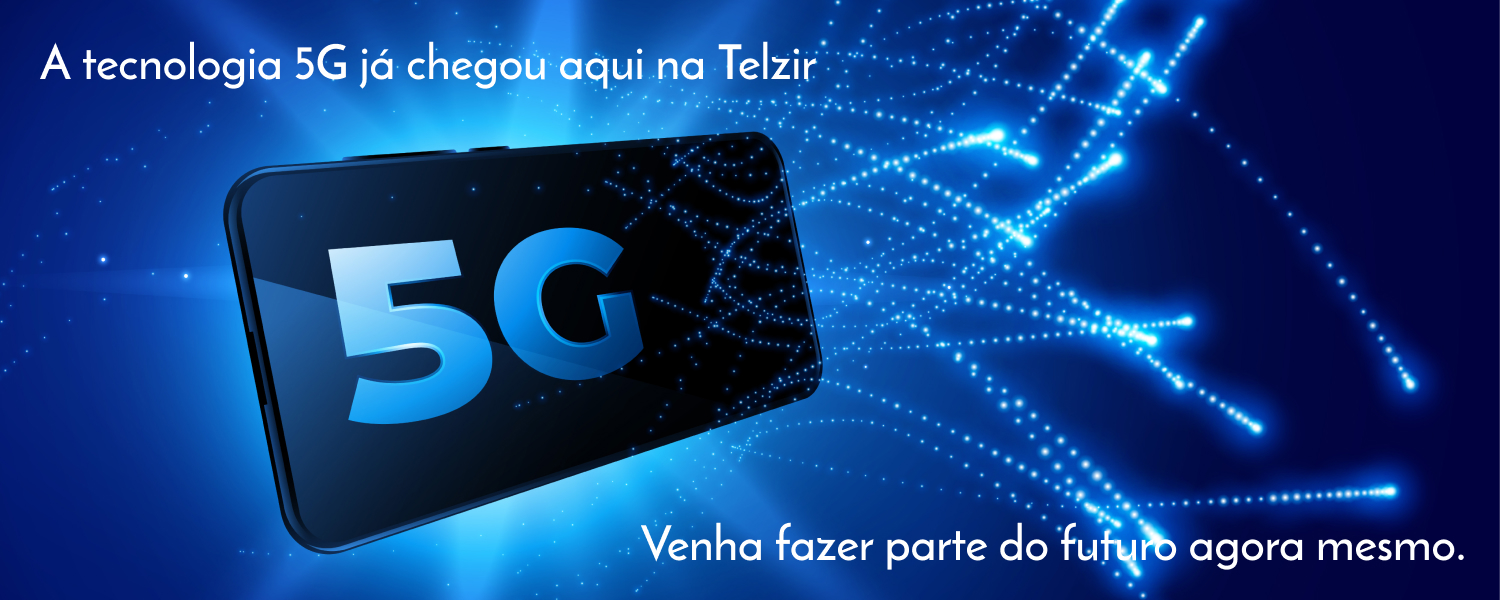
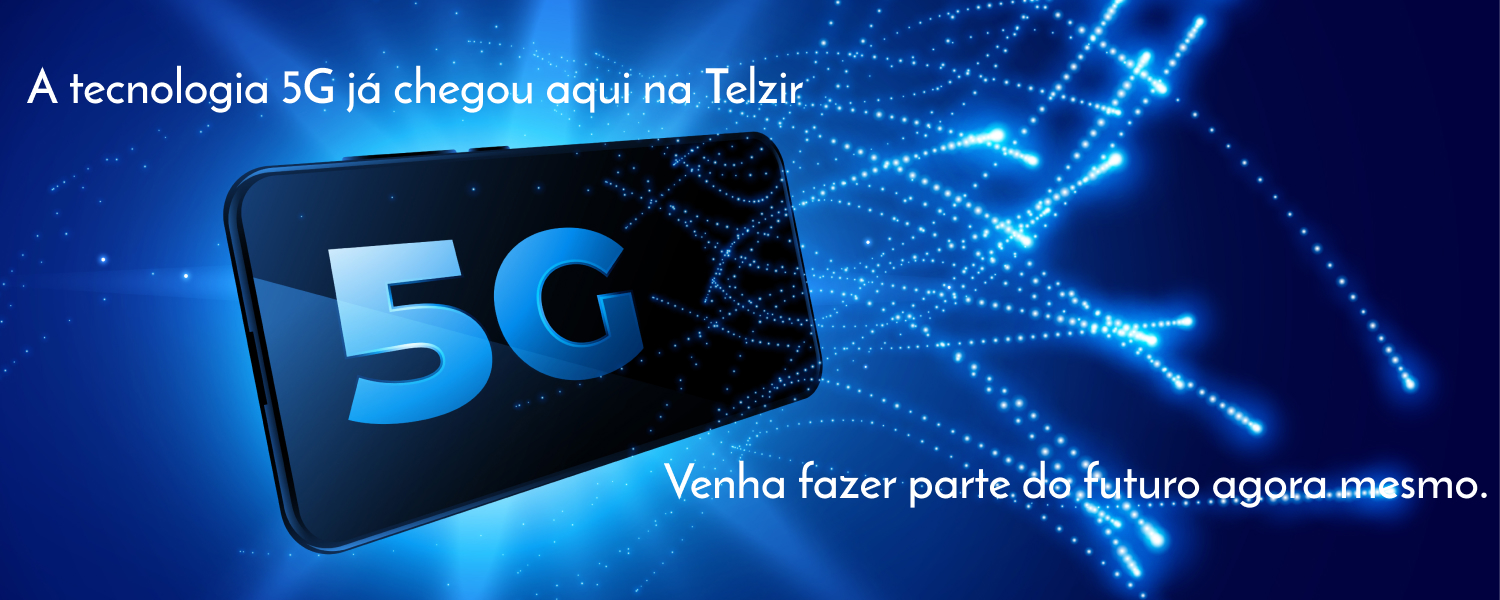
Front-end Finalizado

Changed region(s): [[0.0, 0.06, 0.552, 0.18], [0.4293, 0.78, 1.0, 0.84], [0.4293, 0.87, 0.9813, 0.96]]

diff --git a/src/assets/components/Footer.js b/src/assets/components/Footer.js
@@ -1,20 +1,46 @@
 import React from 'react';
+import { Container, Typography, Box, Link } from '@material-ui/core';
+import { Instagram, Facebook, Twitter, LinkedIn, WhatsApp } from '@material-ui/icons';
 
-const Copyright = () => {
-  return (
-    <Typography variant="body2" color="textSecondary" align="center">
-      {'Copyright © '}
-      <Link color="primary" target="_blank" href="https://higor.tech/">
-        {`Telzir `}
-      </Link>
-      {`${new Date().getFullYear()}.`}
-    </Typography>
-  );
-}
+import Logo from '../images/telzir-logo.png';
 
-const Footer = () => {
+const Footer = ({ estilo }) => {
+  const classes = estilo;
   return (
-    <Copyright />
+    <Container 
+      id="contato"
+      maxWidth="md"
+      component="footer"
+      className={classes.footer}
+    >
+      <Typography variant="body2" color="textSecondary" align="center">
+        <img src={Logo} alt="Telzir" className={classes.logoImage}/><br/>
+        <Link color="primary" target="_blank" href="https://www.linkedin.com/in/higormoroni/">
+          <LinkedIn className={classes.socialIcon}/>
+        </Link>
+        <Link color="primary" target="_blank" href="https://api.whatsapp.com/send?phone=5513988685814">
+          <WhatsApp className={classes.socialIcon}/>
+        </Link>
+        <Link color="primary" target="_blank" href="#">
+          <Twitter className={classes.socialIcon}/>
+        </Link>
+        <Link color="primary" target="_blank" href="#">
+          <Instagram className={classes.socialIcon}/>
+        </Link>
+        <Link color="primary" target="_blank" href="#">
+          <Facebook className={classes.socialIcon}/>
+        </Link>
+      </Typography>
+      <Box mt={5}>
+        <Typography variant="body2" color="textSecondary" align="center">
+          {'Copyright © '}
+          <Link color="primary" target="_blank" href="https://higor.tech/">
+            {`Telzir `}
+          </Link>
+          {`${new Date().getFullYear()}.`}
+        </Typography>
+      </Box>
+    </Container>
   )
 }
 

diff --git a/src/assets/components/Simulation/SimulationResult.js b/src/assets/components/Simulation/SimulationResult.js
@@ -11,6 +11,8 @@ import {
   TableBody
 } from '@material-ui/core';
 
+import falemais from '../../images/falemais-logo.png';
+
 const SimulationResult = ({ back, values, estilo }) => {
   const classes = estilo;
 
@@ -63,12 +65,22 @@ const SimulationResult = ({ back, values, estilo }) => {
                 <TableCell align="right">FaleMais {values.plano}</TableCell>
               </TableRow>
               <TableRow>
-                <TableCell component="th" scope="row">Com FaleMais: </TableCell>
-                <TableCell align="right">{values.comFaleMais}</TableCell>
+                <TableCell component="th" scope="row">
+                  <img src={falemais} alt="FaleMais" className={classes.logoForm}/>
+                </TableCell>
+                <TableCell
+                  align="right"
+                  style={{
+                    fontWeight: 'bold',
+                    fontSize: 18
+                  }}
+                >
+                  R$ {(values.comFaleMais.toFixed(2)).replace('.',',')}
+                </TableCell>
               </TableRow>
               <TableRow>
                 <TableCell component="th" scope="row">Sem FaleMais: </TableCell>
-                <TableCell align="right">{values.semFaleMais}</TableCell>
+                <TableCell align="right">R$ {(values.semFaleMais.toFixed(2)).replace('.',',')}</TableCell>
               </TableRow>
             </TableBody>
           </Table>

diff --git a/src/assets/components/Carrossel/Pagination.js b/src/assets/components/Carrossel/Pagination.js
@@ -1,41 +1,21 @@
 import React from 'react';
-import PropTypes from 'prop-types';
 import PaginationDot from './PaginationDot';
 
-const styles = {
-  root: {
-    position: 'absolute',
-    bottom: 8,
-    right: 8,
-    display: 'flex',
-    flexDirection: 'row',
-  },
-};
-
-class Pagination extends React.Component {
-  handleClick = (event, index) => {
-    this.props.onChangeIndex(index);
+const Pagination = ({ dots, index, onChangeIndex, estilo }) => {
+  const classes = estilo;
+  const handleClick = (event, index) => {
+    onChangeIndex(index);
   };
 
-  render() {
-    const { index, dots } = this.props;
+  const children = [];
 
-    const children = [];
-
-    for (let i = 0; i < dots; i += 1) {
-      children.push(
-        <PaginationDot key={i} index={i} active={i === index} onClick={this.handleClick} />,
-      );
-    }
-
-    return <div style={styles.root}>{children}</div>;
+  for (let i = 0; i < dots; i += 1) {
+    children.push(
+      <PaginationDot key={i} index={i} active={i === index} onClick={handleClick} />,
+    );
   }
-}
 
-Pagination.propTypes = {
-  dots: PropTypes.number.isRequired,
-  index: PropTypes.number.isRequired,
-  onChangeIndex: PropTypes.func.isRequired,
-};
+  return <div className={classes.paginacao}>{children}</div>;
+}
 
 export default Pagination;

diff --git a/src/assets/components/Menu.js b/src/assets/components/Menu.js
@@ -21,17 +21,19 @@ const Menu = ({estilo}) => {
     <AppBar position="fixed" color="default" elevation={0} className={classes.appBar}>
       <Toolbar className={classes.toolbar}>
         <Typography variant="h6" color="inherit" noWrap className={classes.toolbarTitle}>
-          <img src={Logo} alt="Telzir" className={classes.logoImage}/> 
+          <Link href="#">
+            <img src={Logo} alt="Telzir" className={classes.logoImage}/>
+          </Link> 
         </Typography>
         <nav className={classes.navLinks}>
-          <Link variant="button" color="textPrimary" href="#um" className={classes.link}>
-            Features
+          <Link variant="button" color="textPrimary" href="#novidades" className={classes.link}>
+            Novidades
           </Link>
           <Link variant="button" color="textPrimary" href="#falemais" className={classes.link}>
             FaleMais
           </Link>
-          <Link variant="button" color="textPrimary" href="#tres" className={classes.link}>
-            Support
+          <Link variant="button" color="textPrimary" href="#contato" className={classes.link}>
+            Contato
           </Link>
         </nav>
         <LinkRoute to="/localidade">

diff --git a/src/assets/components/Carrossel/Carrossel.js b/src/assets/components/Carrossel/Carrossel.js
@@ -17,25 +17,34 @@ const Carrossel = ({ estilo }) => {
   const handleChangeIndex = index => setIndex(index);
 
   return (
-    <Box>
-      <AutoPlaySwipeableViews index={index} onChangeIndex={handleChangeIndex}>
-      <img
+    <Box id="novidades">
+      <AutoPlaySwipeableViews
+        index={index}
+        onChangeIndex={handleChangeIndex}
+        interval={6000}
+      >
+      <a href="#5g"><img
         className={classes.banner}
         src={cincoG}
         alt="5G"
-      />
-      <img
+      /></a>
+      <a href="#falemais"><img
         className={classes.banner}
         src={ligacao}
         alt="FaleMais"
-      />
-      <img
+      /></a>
+      <a href="#apps"><img
         className={classes.banner}
         src={appsImage}
         alt="apps"
-      />
+      /></a>
       </AutoPlaySwipeableViews>
-      <Pagination dots={3} index={index} onChangeIndex={handleChangeIndex} />
+      <Pagination
+        dots={3}
+        index={index}
+        onChangeIndex={handleChangeIndex}
+        estilo={{ ...classes }}
+      />
     </Box>
   );
 }

diff --git a/src/pages/Home.js b/src/pages/Home.js
@@ -6,6 +6,7 @@ import Cards from '../assets/components/Cards';
 import Simulation from '../assets/components/Simulation/Simulation';
 import WhatsAppButton from '../assets/components/WhatssAppButton';
 import Carrossel from '../assets/components/Carrossel/Carrossel';
+import Footer from '../assets/components/Footer';
 
 import useStyles from '../assets/styles/useStyles';
 
@@ -18,9 +19,6 @@ const Home = () => {
       <CssBaseline />
       <Menu estilo={{ ...classes }}/>
       <Carrossel estilo={{ ...classes }}/>
-      <Container maxWidth="sm" component="main" className={classes.heroContent}>
-        TEXTO
-      </Container>
       <Container id="falemais" maxWidth="sm" component="main" className={classes.heroContent}>
         <Typography align="center">
           <img src={Logo} alt="Telzir" style={{width: '75%'}}/>
@@ -66,6 +64,7 @@ const Home = () => {
           </CardContent>
         </Card>
       </Container>
+      <Footer estilo={{ ...classes }} />
       <WhatsAppButton estilo={{ ...classes }} />
     </React.Fragment>
   );

diff --git a/src/assets/styles/useStyles.js b/src/assets/styles/useStyles.js
@@ -76,14 +76,26 @@ const useStyles = makeStyles((theme) => ({
   },
   banner: {
     width: '100%',
-    height: '100hv',
-    marginTop: '70px',
+    [theme.breakpoints.up('md')]: {
+      height: 'calc(100vh - 70px)',
+      marginTop: '70px',
+    },
     [theme.breakpoints.down('sm')]: {
       marginTop: '105px'
     },
     [theme.breakpoints.down('xs')]: {
       marginTop: '130px'
     }
+  },
+  paginacao: {
+    position: 'absolute',
+    bottom: 10,
+    right: 10,
+    display: 'flex',
+    [theme.breakpoints.down('xs')]: {
+      display: 'none',
+    },
+    flexDirection: 'row',
   },
   heroContent: {
     padding: theme.spacing(8, 0, 6),
@@ -111,6 +123,14 @@ const useStyles = makeStyles((theme) => ({
     [theme.breakpoints.up('sm')]: {
       marginLeft: '16%'
     }
+  },
+  logoForm: {
+    width: '60%',
+    maxWidth: 180
+  },
+  socialIcon: {
+    margin: theme.spacing(2, 4, 0, 4),
+    color: '#0D3858'
   },
   footer: {
     borderTop: `1px solid ${theme.palette.divider}`,

diff --git a/public/index.html b/public/index.html
@@ -3,7 +3,7 @@
   <head>
     <meta charset="utf-8" />
     <meta name="viewport" content="width=device-width, initial-scale=1" />
-    <link rel="shortcut icon" href="favicon.ico" />
+    <link rel="shortcut icon" href="favicon.png" type="image/x-icon">
     <link rel="stylesheet" href="https://fonts.googleapis.com/css?family=Roboto:300,400,500,700&display=swap" />
     <meta name="theme-color" content="#0D3858" />
     <title>Telzir</title>

diff --git a/src/assets/components/Carrossel/PaginationDot.js b/src/assets/components/Carrossel/PaginationDot.js
@@ -18,7 +18,7 @@ const styles = {
     margin: 3,
   },
   active: {
-    backgroundColor: '#319fd6',
+    backgroundColor: '#0D3858',
   },
 };
 
